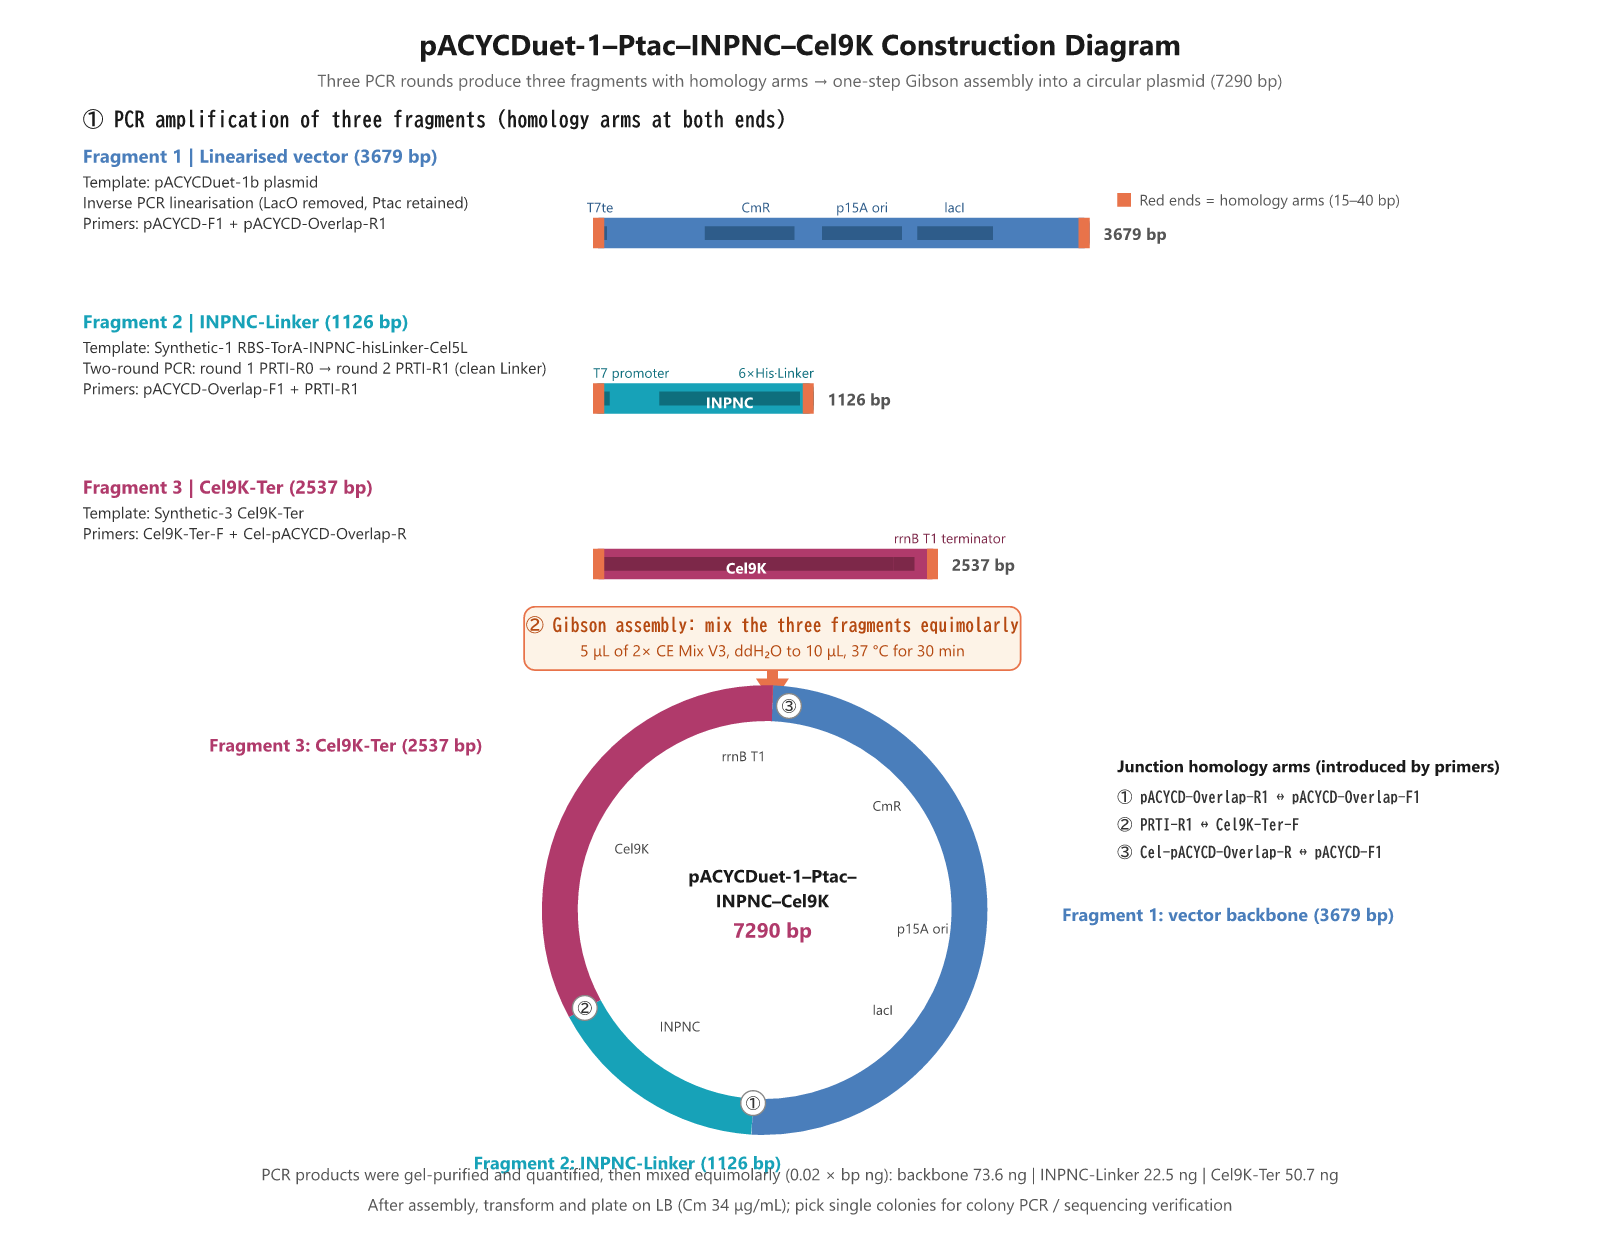
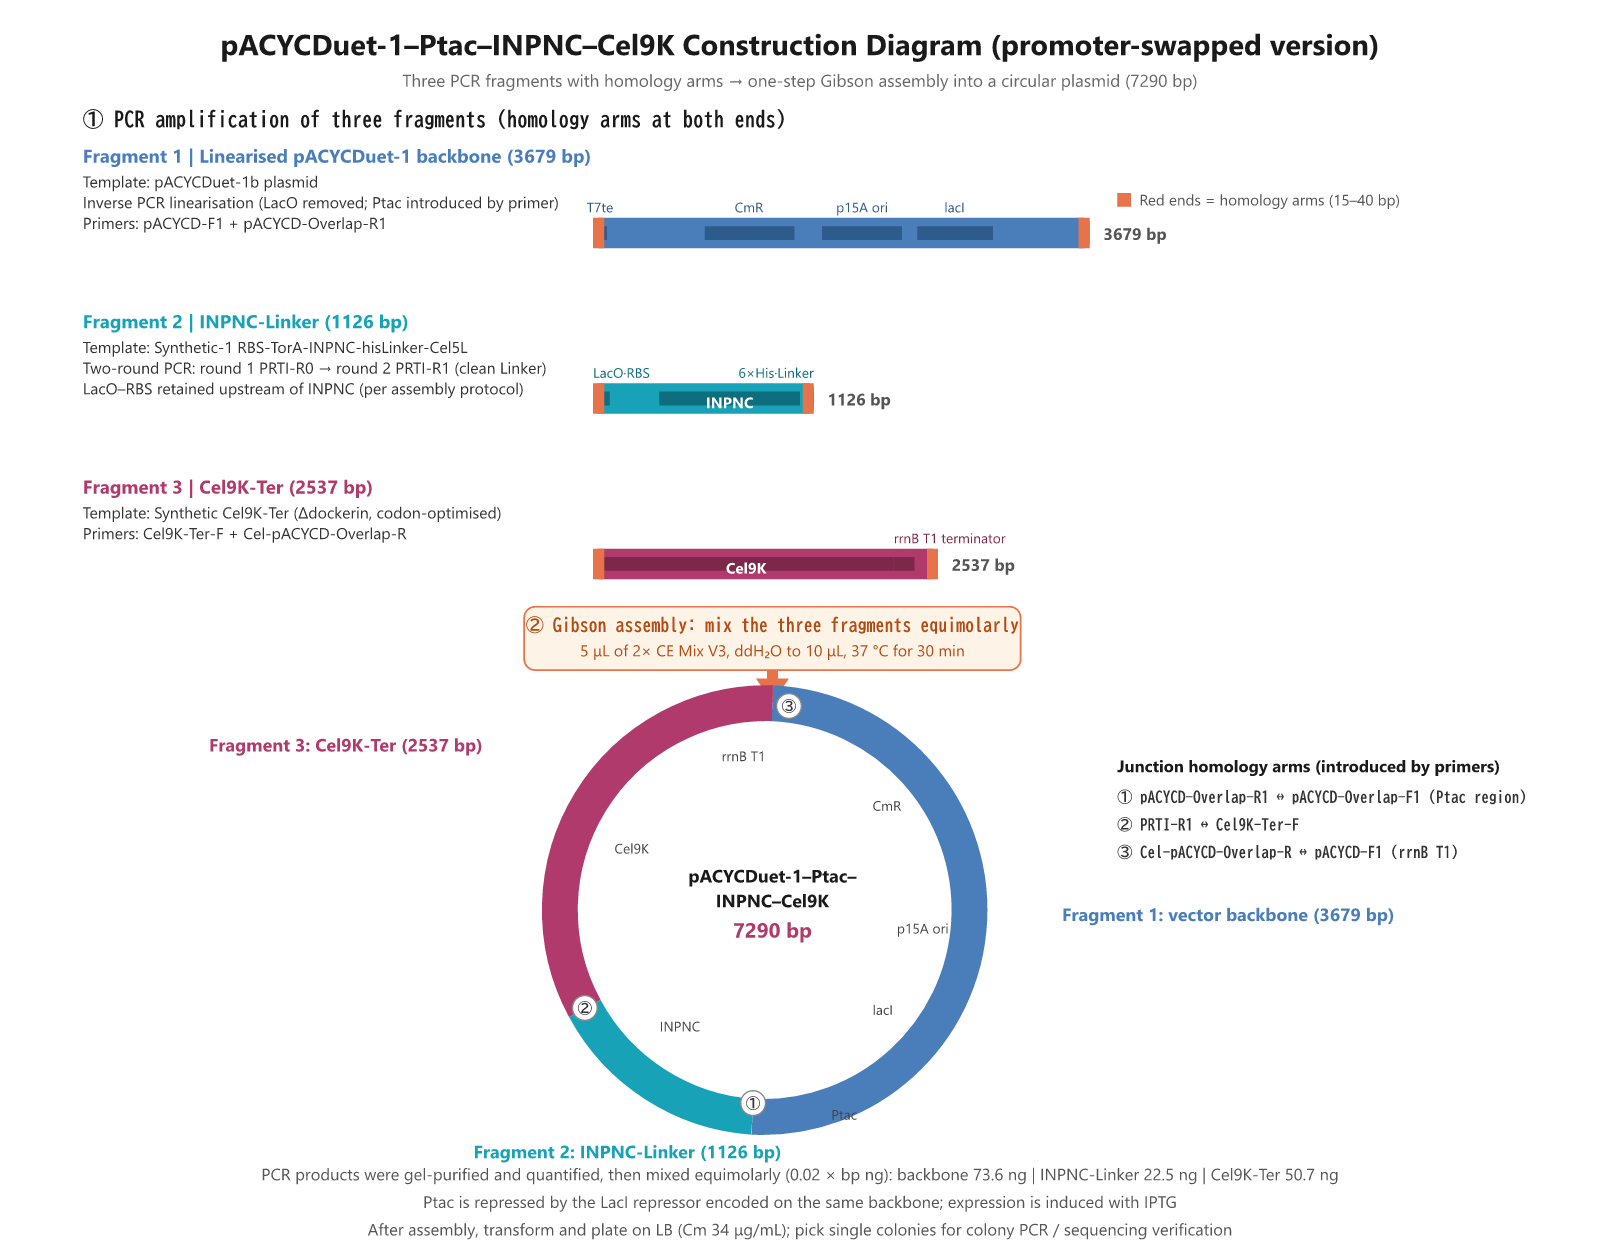
update B

diff --git a/Project/Engineering/DBTL_B.md b/Project/Engineering/DBTL_B.md
@@ -506,13 +506,15 @@ streptomycin + spectinomycin 双药也不能抑制 WT；
 
 ![pACYCDuet-1–INPNC–Cel5L Gibson 组装示意图](./images%20of%20wetlabDBTL/pACYCDuet-1-Cel5L-Gibson-assembly.png)
 
-图3-构1 pACYCDuet-1–INPNC–Cel5L（6654 bp）的构建策略：反向 PCR 线性化 pACYCDuet-1b（3679 bp，去除 LacO 区）+ INPNC-Linker（1126 bp，两轮 PCR 获得）+ Cel5L-Ter（1901 bp，Δdockerin、密码子优化）三片段等摩尔一步组装。
+图3-构1 pACYCDuet-1–**J23116**–INPNC–Cel5L（6654 bp）的构建策略：反向 PCR 线性化 pACYCDuet-1b（MCS1 多克隆位点替换为 J23116 表达盒，保留骨架 4013 bp）+ J23116–RBS–TorA–INPNC–6×His–Linker（1286 bp，两轮 PCR 获得）+ Cel5L–rrnB T1（1380 bp，Δdockerin、密码子优化）三片段等摩尔一步组装。
 
 ![pACYCDuet-1–INPNC–Cel48S Gibson 组装示意图](./images%20of%20wetlabDBTL/pACYCDuet-1-Cel48S-Gibson-assembly.png)
 
-图3-构2 pACYCDuet-1–INPNC–Cel48S（7776 bp）的构建策略：与 Cel5L 相同的三片段策略，Cel48S-Ter 片段为 3023 bp，最终质粒 7776 bp，是本模块最大的构建体。
+图3-构2 pACYCDuet-1–**J23116**–INPNC–Cel48S（7776 bp）的构建策略：与 Cel5L 相同的三片段策略，Cel48S–rrnB T1 片段为 2502 bp，最终质粒 7776 bp，是本模块最大的构建体。
 
-第三个构建 pACYCDuet-1–INPNC–Cel9K 与另外两个完全相同：同一启动子、同一线性化骨架与 INPNC-Linker 锚定模块，仅第三片段更换为 Cel9K-Ter。其专用构建示意图尚未绘制，暂以本段文字说明 [示意图待补充]。
+![pACYCDuet-1–J23116–INPNC–Cel9K Gibson 组装示意图](./images%20of%20wetlabDBTL/pACYCDuet-1-Cel9K-J23116-Gibson-assembly.png)
+
+图3-构3 pACYCDuet-1–**J23116**–INPNC–Cel9K（7776 bp）的构建策略：与 Cel5L / Cel48S 完全相同——同一启动子（J23116）、同一线性化骨架与 INPNC-Linker 锚定模块，仅第三片段更换为 Cel9K–rrnB T1（2502 bp）。
 
 随后分别完成：
 
@@ -802,7 +804,7 @@ GFP 路线采用**两条分支、四轮 PCR**的策略：
 
 ![pACYCDuet-1–Ptac–INPNC–Cel9K Gibson 组装示意图](./images%20of%20wetlabDBTL/pACYCDuet-1-Cel9K-Gibson-assembly.png)
 
-图5-构2 pACYCDuet-1–Ptac–INPNC–Cel9K（7290 bp）的构建策略：与 GFP 系统共用反向 PCR 线性化骨架（3679 bp，LacO 区去除、Ptac 保留）与 INPNC-Linker 片段（1126 bp，两轮 PCR 获得），第三片段为 Cel9K-Ter（2537 bp），三片段等摩尔一步组装。该构建与 Ptac-GFP 同期完成，其转化与验证记录暂缺 [待补充]。
+图5-构2 pACYCDuet-1–Ptac–INPNC–Cel9K（7290 bp）的构建策略：与 GFP 系统共用反向 PCR 线性化骨架（3679 bp，LacO 区去除、Ptac 由引物引入）与 INPNC-Linker 片段（1126 bp，两轮 PCR 获得），第三片段为 Cel9K-Ter（2537 bp），三片段等摩尔一步组装。Ptac 受骨架上 lacI 编码的阻遏蛋白抑制，可用 IPTG 诱导。该构建与 Ptac-GFP 同期完成；转化后平板上未长出菌落（未获转化子，Cycle 11 记录），尚未获得生物学验证。
 
 #### Test
 
